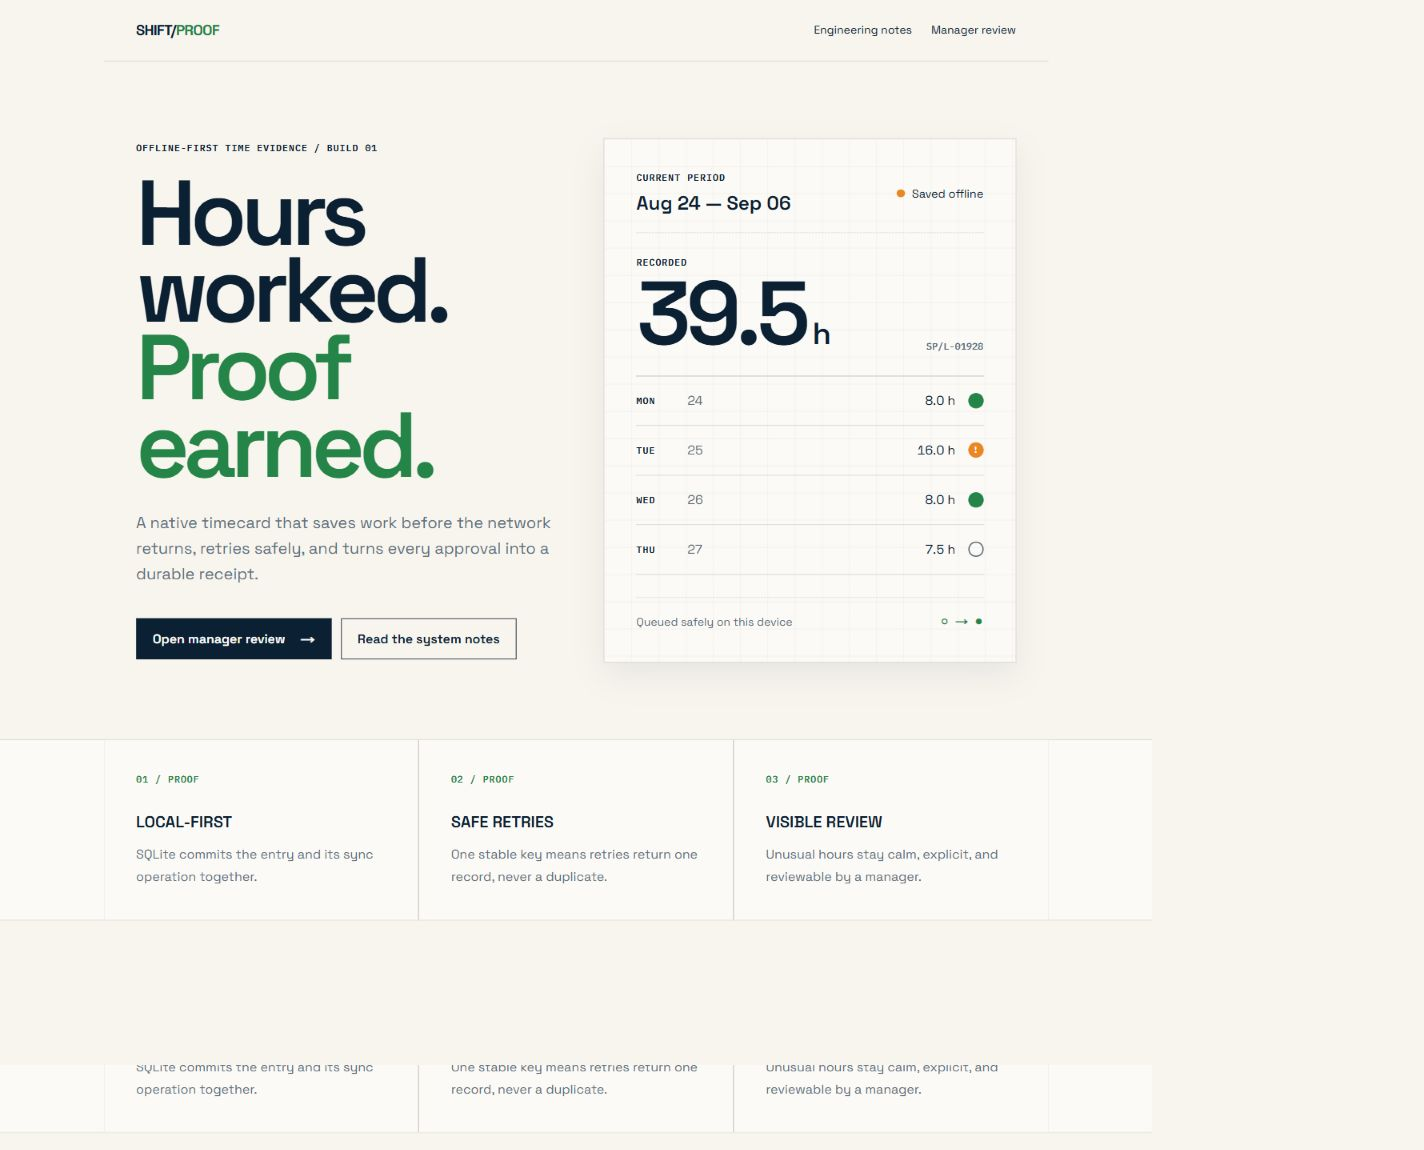
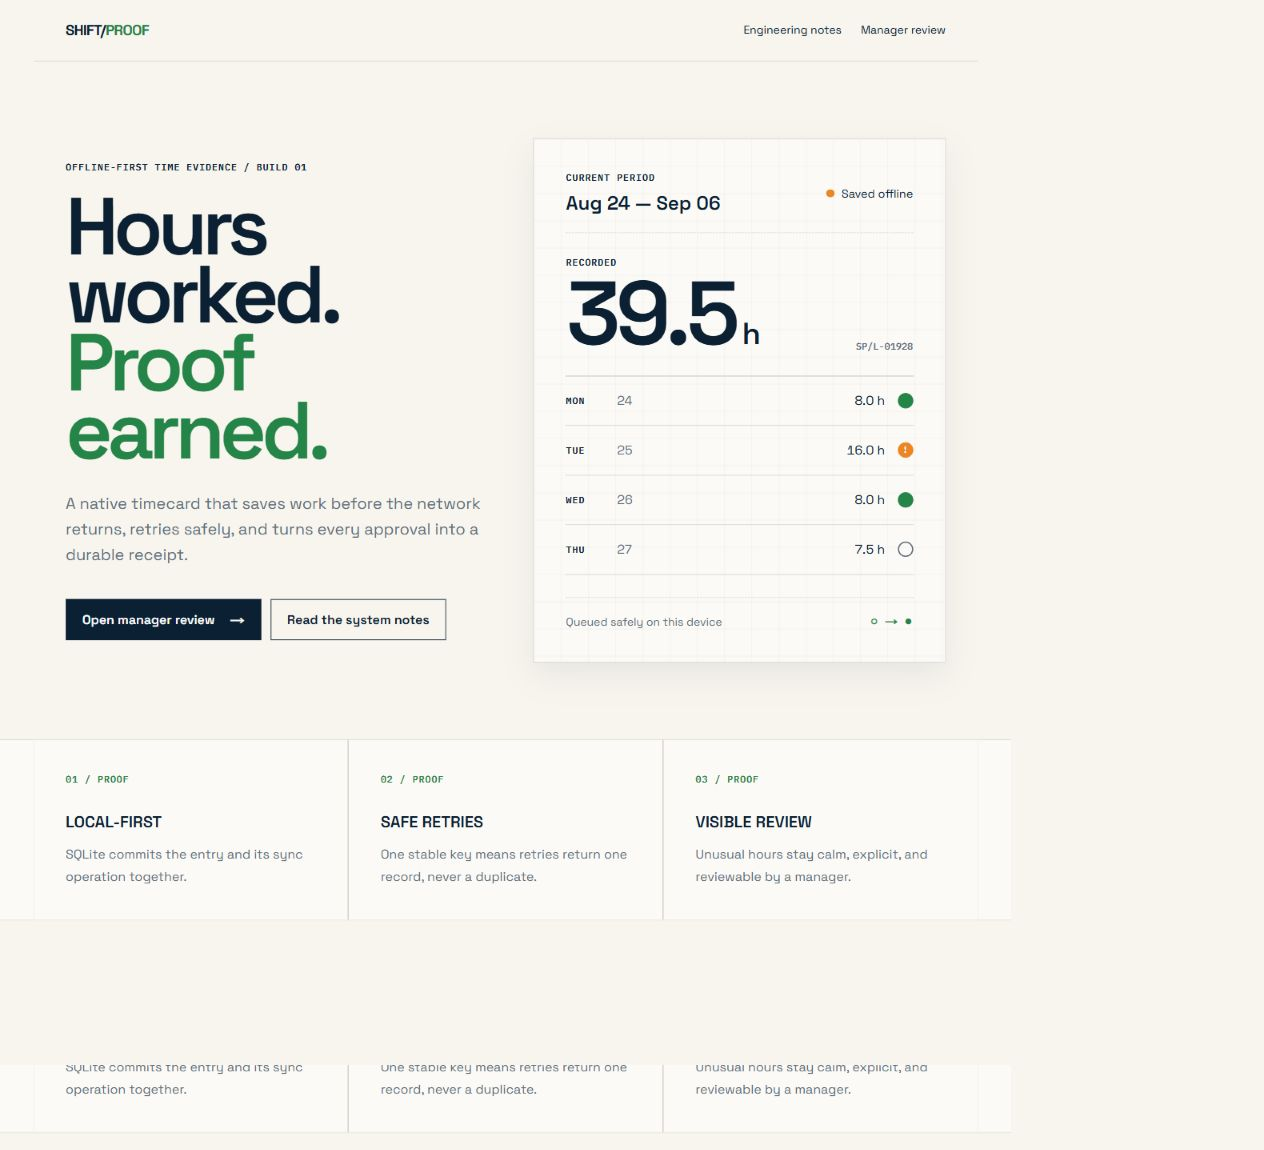
Publish verified ShiftProof reviewer release

diff --git a/apps/web/app/page.tsx b/apps/web/app/page.tsx
@@ -110,6 +110,21 @@ export default function Home() {
           ))}
         </div>
       </section>
+
+      <footer className="mx-auto flex max-w-[1180px] flex-col gap-5 px-6 py-10 text-sm text-[var(--slate)] sm:flex-row sm:items-center sm:justify-between sm:px-10">
+        <p className="max-w-[720px] leading-6">
+          Independent portfolio demo built with synthetic data. ShiftProof is not a
+          Wagepoint product and was not commissioned or endorsed by Wagepoint.
+        </p>
+        <a
+          className="proof-meta link-underline w-fit text-[var(--ink)]"
+          href="https://github.com/yazanbaker94/shiftproof"
+          rel="noreferrer"
+          target="_blank"
+        >
+          SOURCE + DOCUMENTATION →
+        </a>
+      </footer>
     </main>
   );
 }

diff --git a/README.md b/README.md
@@ -6,6 +6,15 @@ ShiftProof is an independent, offline-first timecard engineering demo. It follow
 
 It is a portfolio project, not a Wagepoint product. Wagepoint did not commission, sponsor, or approve it. All people, dates, hours, notes, identifiers, and review decisions in the demo are synthetic.
 
+## Review the finished build
+
+- [Live case study](https://shiftproof.swoop.video)
+- [Live manager review](https://shiftproof.swoop.video/review)
+- [Download the Android reviewer APK](https://github.com/yazanbaker94/shiftproof/releases/latest/download/shiftproof-release-arm64-v8a.apk)
+- [Browse the source and documentation](https://github.com/yazanbaker94/shiftproof)
+
+The Android APK is an ARM64 reviewer build for modern physical Android devices. Its API endpoint is the same HTTPS deployment used by the manager review.
+
 ## What to review
 
 | Surface | Role in the demo | What it proves |
@@ -30,6 +39,16 @@ The design is intentionally narrow: one reliable workflow is implemented end to 
 8. When the web ledger is connected to the API, that decision appends a revision and event; approval also creates a stable receipt ID and timestamp.
 
 For the exact reviewer path and the meaning of each mode, see [Reviewer demo script](docs/demo-script.md). For persistence and recovery details, see [Architecture](docs/architecture.md).
+
+## Verified evidence
+
+| Offline save on Android | Confirmed online synchronization |
+| --- | --- |
+| ![ShiftProof saved offline on Android](docs/screenshots/mobile/saved-offline.png) | ![ShiftProof synchronized with the API](docs/screenshots/mobile/synced-online.png) |
+
+| Manager review | Approval recorded |
+| --- | --- |
+| ![ShiftProof manager review](docs/screenshots/web/manager-review.png) | ![ShiftProof approved revision](docs/screenshots/web/manager-review-approved.png) |
 
 ## What is implemented
 
@@ -133,7 +152,7 @@ npm --prefix apps/mobile run android:debug:x86_64
 npm --prefix apps/mobile run android:reviewer:arm64
 ```
 
-The build script writes generated APKs under `apps/mobile/dist/android/`. APKs are intentionally ignored by Git; a downloadable binary should be attached to a verified GitHub Release rather than linked with a placeholder. This README does not claim a hosted demo URL or release asset until one is actually published and checked.
+The build script writes generated APKs under `apps/mobile/dist/android/`. APKs are intentionally ignored by Git; the verified reviewer binary and its SHA-256 checksum are attached to the latest GitHub Release.
 
 ## Privacy and product boundary
 

diff --git a/docs/demo-script.md b/docs/demo-script.md
@@ -2,6 +2,8 @@
 
 This walkthrough distinguishes a connected run from the self-contained preview. Before presenting, decide which mode you are using.
 
+The published reviewer path is [shiftproof.swoop.video](https://shiftproof.swoop.video), with the connected ledger at [/review](https://shiftproof.swoop.video/review). The latest ARM64 APK is attached to the [GitHub release](https://github.com/yazanbaker94/shiftproof/releases/latest).
+
 ## Choose a mode
 
 ### Connected end to end
